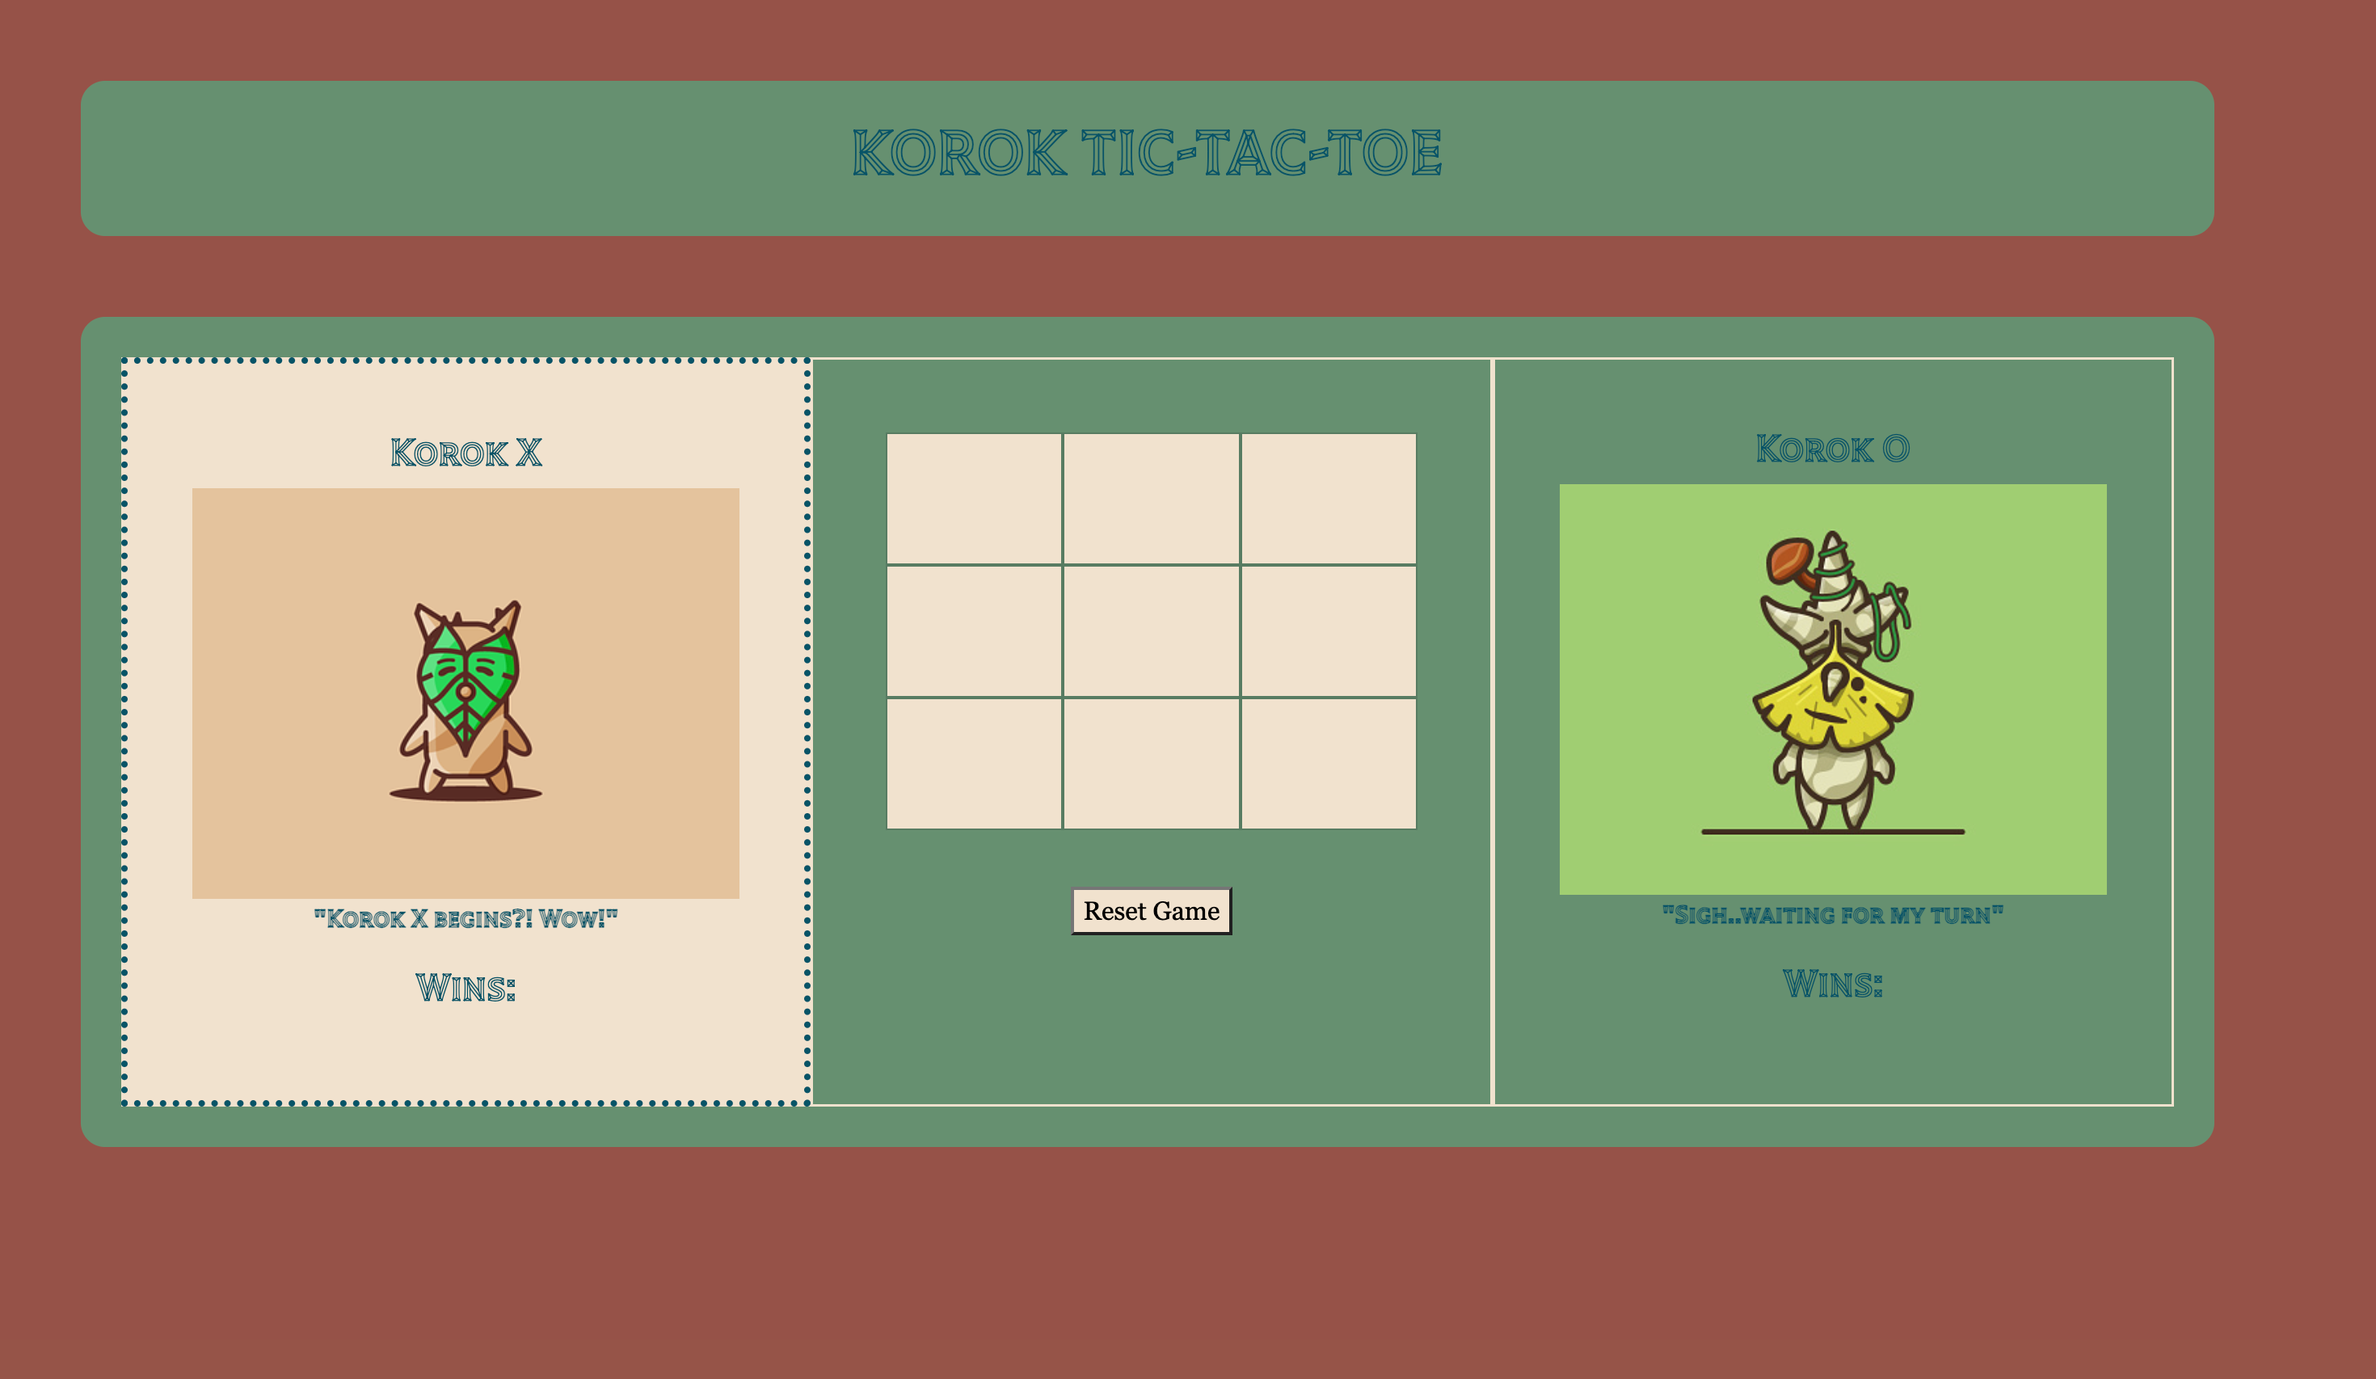
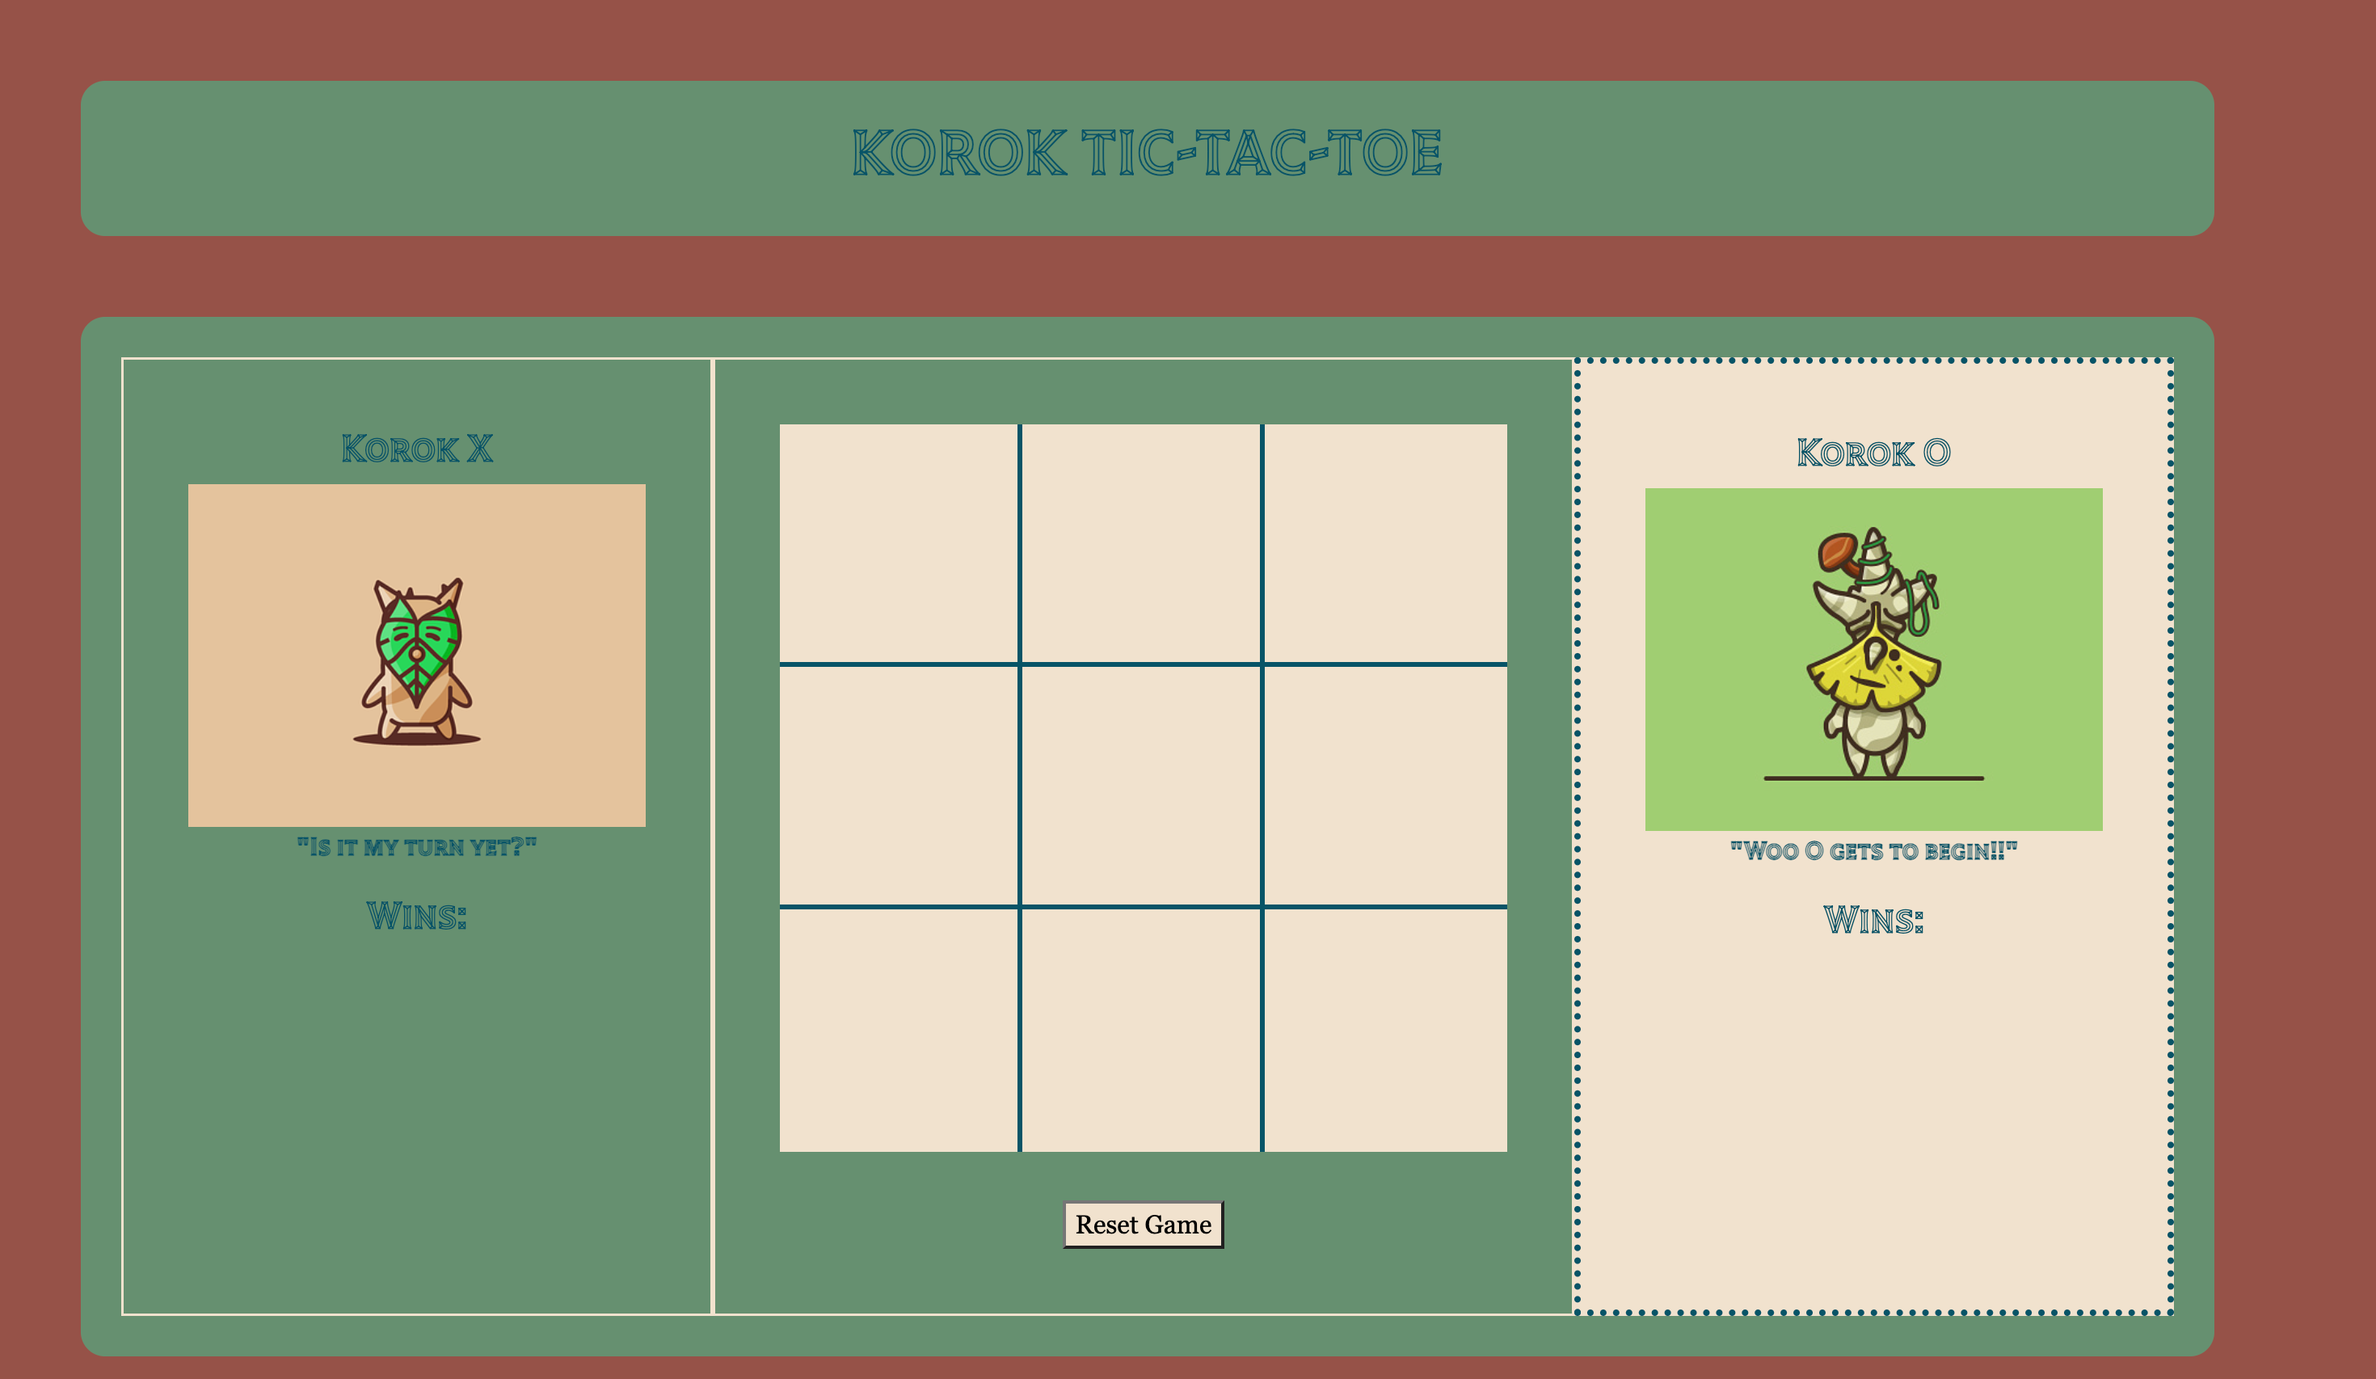
ReadMe Updates

diff --git a/script.js b/script.js
@@ -13,109 +13,134 @@ let xCounter = 0;
 let oCounter = 0;
 let korokXPhrase = document.querySelector("#korok-x-phrase");
 let korokOPhrase = document.querySelector("#korok-o-phrase");
-const korokYahahaSound = new Audio('media/yahaha.mp3');
-const korokSeedSound = new Audio('media/korok_seed.mp3');
-const korokRockSound = new Audio('media/dropping_rock_korok.mp3');
-const korokAppearSound = new Audio('media/korok_appear_short.mp3');
-// korokAppearSound.play();
+const korokYahahaSound = new Audio("media/yahaha.mp3");
+const korokSeedSound = new Audio("media/korok_seed.mp3");
+const korokRockSound = new Audio("media/dropping_rock_korok.mp3");
 
-window.addEventListener("load", () => { //upon window loading Event Listener
-    swal({
-        title: "You found us!",
-        text: "Let's start the game!",
-        button: "Ahh yiss!"
-    })
-})
+window.addEventListener("load", () => {
+  //upon window loading Event Listener
+  swal({
+    title: "You found us!",
+    text: "Let's start the game!",
+    button: "Ahh yiss!",
+    closeOnClickOutside: false,
+  });
+});
 
 let playerRandom = Math.floor(Math.random() * players.length); //randomly picks a player
-if (playerRandom === 0) { //if it's playerX's turn, their box is highlighted else playerO's box is highlighted
-    playerTurn = "X"
-    korokX.classList.add("player-turn") 
-    korokXPhrase.innerText = '"Korok X begins?! Wow!"'
+if (playerRandom === 0) {
+  //if it's playerX's turn, their box is highlighted else playerO's box is highlighted
+  playerTurn = "X";
+  korokX.classList.add("player-turn");
+  korokXPhrase.innerText = '"Korok X begins?! Wow!"';
 } else {
-    playerTurn = "O"
-    korokO.classList.add("player-turn")
-    korokOPhrase.innerText = '"Woo O gets to begin!!"'
-};
+  playerTurn = "O";
+  korokO.classList.add("player-turn");
+  korokOPhrase.innerText = '"Woo O gets to begin!!"';
+}
 
 function checkWin() {
-    if (
-    gridItem[0].innerText === gridItem[1].innerText && gridItem[0].innerText === gridItem[2].innerText && gridItem[0].innerText !== "" ||
-    gridItem[3].innerText === gridItem[4].innerText && gridItem[3].innerText === gridItem[5].innerText && gridItem[3].innerText !== "" ||
-    gridItem[6].innerText === gridItem[7].innerText && gridItem[6].innerText === gridItem[8].innerText && gridItem[6].innerText !== "" ||
-    gridItem[0].innerText === gridItem[3].innerText && gridItem[0].innerText === gridItem[6].innerText && gridItem[0].innerText !== "" ||
-    gridItem[1].innerText === gridItem[4].innerText && gridItem[1].innerText === gridItem[7].innerText && gridItem[1].innerText !== "" ||
-    gridItem[2].innerText === gridItem[5].innerText && gridItem[2].innerText === gridItem[8].innerText && gridItem[2].innerText !== "" ||
-    gridItem[0].innerText === gridItem[4].innerText && gridItem[0].innerText === gridItem[8].innerText && gridItem[0].innerText !== "" ||
-    gridItem[2].innerText === gridItem[4].innerText && gridItem[2].innerText === gridItem[6].innerText && gridItem[2].innerText !== "" 
-    ) {
-        gameOver = true; //changes game over as true
-        korokSeedSound.play()
-        setTimeout(() => {swal(`Korok ${playerTurn} wins!`)}, 50) //delays winner alert by 100ms
-    };
-};
+  if (
+    (gridItem[0].innerText === gridItem[1].innerText &&
+      gridItem[0].innerText === gridItem[2].innerText &&
+      gridItem[0].innerText !== "") ||
+    (gridItem[3].innerText === gridItem[4].innerText &&
+      gridItem[3].innerText === gridItem[5].innerText &&
+      gridItem[3].innerText !== "") ||
+    (gridItem[6].innerText === gridItem[7].innerText &&
+      gridItem[6].innerText === gridItem[8].innerText &&
+      gridItem[6].innerText !== "") ||
+    (gridItem[0].innerText === gridItem[3].innerText &&
+      gridItem[0].innerText === gridItem[6].innerText &&
+      gridItem[0].innerText !== "") ||
+    (gridItem[1].innerText === gridItem[4].innerText &&
+      gridItem[1].innerText === gridItem[7].innerText &&
+      gridItem[1].innerText !== "") ||
+    (gridItem[2].innerText === gridItem[5].innerText &&
+      gridItem[2].innerText === gridItem[8].innerText &&
+      gridItem[2].innerText !== "") ||
+    (gridItem[0].innerText === gridItem[4].innerText &&
+      gridItem[0].innerText === gridItem[8].innerText &&
+      gridItem[0].innerText !== "") ||
+    (gridItem[2].innerText === gridItem[4].innerText &&
+      gridItem[2].innerText === gridItem[6].innerText &&
+      gridItem[2].innerText !== "")
+  ) {
+    gameOver = true; //changes game over as true
+    korokSeedSound.play();
+    setTimeout(() => {
+      swal(`Korok ${playerTurn} wins!`);
+    }, 50); //delays winner alert by 100ms
+  }
+}
 
 function checkTie() {
-    if (checkTieArray.every(item => item === "X" || item === "O")){ //checks every item in the array for matching values
-        gameOver = true;
-        korokRockSound.play()
-        setTimeout(() => {
-            swal("Oooo it's a tie")
-        }, 50)
-    };
-};
+  if (checkTieArray.every((item) => item === "X" || item === "O")) {
+    //checks every item in the array for matching values
+    gameOver = true;
+    korokRockSound.play();
+    setTimeout(() => {
+      swal("Oooo it's a tie");
+    }, 50);
+  }
+}
 
-for (let i = 0; i < gridItem.length; i++) { //Iterates through grid items and performs the event listener
-    gridItem[i].addEventListener("click", gridItemClicked); //listens for if a gridItem is clicked
-    button.addEventListener("click", () => { //RESET GAME BUTTON EVENT LISTENER
-        korokYahahaSound.play()
-        gridItem[i].innerHTML = "";
-        checkTieArray = [];
-        gameOver = false;
-    });
-    function gridItemClicked(event) {
-        const clickedItem = event.target; //sets whichever grid item is clicked on as the event target
-        if (gameOver === true) { //keeps the game from continuing once a winner has been declared
-            return
-        };
-        
-        if (clickedItem.innerText === "X" || clickedItem.innerText === "O") { //stops users from choosing a spot that is already taken
-            korokRockSound.play()
-            swal("Spot is already taken! Choose another move.")
-        };
+for (let i = 0; i < gridItem.length; i++) {
+  //Iterates through grid items and performs the event listener
+  gridItem[i].addEventListener("click", gridItemClicked); //listens for if a gridItem is clicked
+  button.addEventListener("click", () => {
+    //RESET GAME BUTTON EVENT LISTENER
+    korokYahahaSound.play();
+    gridItem[i].innerHTML = "";
+    checkTieArray = [];
+    gameOver = false;
+  });
+  function gridItemClicked(event) {
+    const clickedItem = event.target; //sets whichever grid item is clicked on as the event target
+    if (gameOver === true) {
+      //keeps the game from continuing once a winner has been declared
+      return;
+    }
 
-        if (playerTurn === "X") {
-            clickedItem.innerText = korokXChoice //changes text to playerX's choice
-            checkWin()
-            if (gameOver === false ) {
-            korokX.classList.remove("player-turn") //removes playerOne box highlight
-            korokO.classList.add("player-turn") //adds playerTwo box highlight
-            playerTurn = "O" //switches playerTurn back to playerTwo
-            korokOPhrase.innerText = '"Woo O\'s turn!!"'
-            korokXPhrase.innerText = '"Is it my turn yet?"'
-            } else {
-                xCounter++
-                document.querySelector("#korok-x-wins").innerHTML = `${xCounter}`
-            };
-        } else {
-            clickedItem.innerText = korokOChoice //changes text to playerO's choice
-            checkWin()
-            if (gameOver === false ) {
-                korokO.classList.remove("player-turn") //removes playerTwo box highlight
-                korokX.classList.add("player-turn") //adds playerOne box highlight
-                playerTurn = "X" //switches playerTurn back to playerOne
-                korokXPhrase.innerText = '"It\'s X\'s turn!"'
-                korokOPhrase.innerText = '"Sigh..waiting for my turn"'
-            } else {
-                oCounter++
-                document.querySelector("#korok-o-wins").innerHTML = `${oCounter}`
-            };
-        };
-        //Check Tie
-        let gridItems = gridItem[i].innerText //grabs all the X's and O's entered
-        checkTieArray.push(gridItems) //push X's and O's into a new array
-        if (checkTieArray.length === 9 && gameOver === false) { //check for tie if all boxes are filled AND gameOver still false
-            checkTie()
-        }; //end check tie
-    }; //end gridItemClicked() function
-}; //end forOf loop
+    if (clickedItem.innerText === "X" || clickedItem.innerText === "O") {
+      //stops users from choosing a spot that is already taken
+      korokRockSound.play();
+      swal("Spot is already taken! Choose another move.");
+    }
+
+    if (playerTurn === "X") {
+      clickedItem.innerText = korokXChoice; //changes text to playerX's choice
+      checkWin();
+      if (gameOver === false) {
+        korokX.classList.remove("player-turn"); //removes playerOne box highlight
+        korokO.classList.add("player-turn"); //adds playerTwo box highlight
+        playerTurn = "O"; //switches playerTurn back to playerTwo
+        korokOPhrase.innerText = '"Woo O\'s turn!!"';
+        korokXPhrase.innerText = '"Is it my turn yet?"';
+      } else {
+        xCounter++;
+        document.querySelector("#korok-x-wins").innerHTML = `${xCounter}`;
+      }
+    } else {
+      clickedItem.innerText = korokOChoice; //changes text to playerO's choice
+      checkWin();
+      if (gameOver === false) {
+        korokO.classList.remove("player-turn"); //removes playerTwo box highlight
+        korokX.classList.add("player-turn"); //adds playerOne box highlight
+        playerTurn = "X"; //switches playerTurn back to playerOne
+        korokXPhrase.innerText = "\"It's X's turn!\"";
+        korokOPhrase.innerText = '"Sigh..waiting for my turn"';
+      } else {
+        oCounter++;
+        document.querySelector("#korok-o-wins").innerHTML = `${oCounter}`;
+      }
+    }
+    //Check Tie
+    let gridItems = gridItem[i].innerText; //grabs all the X's and O's entered
+    checkTieArray.push(gridItems); //push X's and O's into a new array
+    if (checkTieArray.length === 9 && gameOver === false) {
+      //check for tie if all boxes are filled AND gameOver still false
+      checkTie();
+    } //end check tie
+  } //end gridItemClicked() function
+} //end forOf loop

diff --git a/index.html b/index.html
@@ -53,7 +53,6 @@
     </div>
   </div>
   <!--BOOTSTRAP-->
-  <script src="https://cdn.jsdelivr.net/npm/@popperjs/core@2.11.8/dist/umd/popper.min.js" integrity="sha384-I7E8VVD/ismYTF4hNIPjVp/Zjvgyol6VFvRkX/vR+Vc4jQkC+hVqc2pM8ODewa9r" crossorigin="anonymous"></script>
   <script src="https://cdn.jsdelivr.net/npm/bootstrap@5.3.1/dist/js/bootstrap.min.js" integrity="sha384-Rx+T1VzGupg4BHQYs2gCW9It+akI2MM/mndMCy36UVfodzcJcF0GGLxZIzObiEfa" crossorigin="anonymous"></script>
   <!--MY JS-->
   <script src="script.js"></script>

diff --git a/style.css b/style.css
@@ -44,11 +44,6 @@
     margin: 5px;
 } 
 
-.player-turn { /*indicates player turn */
-    background-color: rgb(241, 227, 206);
-    border: 4px dotted rgb(9, 84, 103);
-}
-
 img {
     max-width: 100%;
 }
@@ -72,4 +67,9 @@ button {
 .content {
     max-width: 100%; /* stretches content to be the max width of the browser window */
     margin: auto;
+}
+
+.player-turn { /*indicates player turn */
+    background-color: rgb(241, 227, 206);
+    border: 4px dotted rgb(9, 84, 103);
 }

diff --git a/README.md b/README.md
@@ -14,6 +14,7 @@
 - Visually display which side won if a player gets three in a row, or show a draw if neither player wins
 - Include separate HTML / CSS / JavaScript files
 - Use JavaScript for DOM manipulation
+- Popup alerts to start a new game, when a player wins, there is a tie, or a spot is already taken
 
 ## User Stories
 - As a user, I should be able to start a new tic tac toe game
@@ -26,14 +27,24 @@
 
 ## MVP
 - **Bronze**
+    - Render a game board in the browser
+    - Switch turns between Korok X and Korok O
+    - Visually display which side won if a player gets three in a row, or show a draw if neither player wins
+    - Include separate HTML / CSS / JavaScript files
 - **Silver**
+    - CSS Styling
 - **Gold**
+    - Add responsive sounds
+    - Add a win counter
 
 ## Approach to logic
 - **HTML:** I kept the HTML layout simple. I used Bootstrap to create the gameboard columns, and the tic tac toe board itself consists of a grid-container with grid-items. I did not like how Bootstrap buttons look and so preferred to customize it myself.
-- **CSS:** One of the pivotal pieces of CSS was the .player-turn. I wanted the CSS of the Korok box to change depending on whose turn it was, so I gave it a different background-color and a dotted outline.
-- **Javascript:** I organized the logic by keeping all my variables at the top and event listeners below. At the start of each new round, I wanted a random player to be chosen to go first to be fair, so I used the Math.floor(Math.random()) method. Along with the CSS changing to dictate whose turn it is, I also utilized Javascript classList to add and remove the Korok's phrases depending on who starts and whose turn it is.
-    - **Event Listeners:** I had two event listeners, one to reload the page when the Reset Game button is clicked, and one to listen every time a grid-item was clicked on.
+- **CSS:**
+    - **Player Turns:** One of the pivotal pieces of CSS was the .player-turn. I wanted the CSS of the Korok box to change depending on whose turn it was, so I gave it a different background-color and a dotted outline.
+    - **Window Resizing:** I wanted to ensure that no matter how the window was resized, the gameboard and player boards did not shift outside of their respective container
+- **Javascript:** I organized the logic by keeping all my variables at the top and everything else below.
+    - **Player Turn:**  I used the Math.floor(Math.random()) method so that at the start of each new round, a random player is choosen. Along with the CSS changing to dictate whose turn it is, I also utilized Javascript classList to add and remove the Korok's phrases depending on who starts and whose turn it is.
+    - **Event Listeners:** I had three event listeners. One to listen when the window is reloaded which triggers a popup to start the game. A second to reset the gamebaord when the "Reset Game" button is clicked. A third to listen every time a grid-item was clicked on.
     - **Win Logic:** I listed all the ways a Korok could win using conditional statements.
     - **Tie Logic:** I created a separate function to checkTie that pushes innerText to a new array everytime the innerText is changed, and then iterated through this array to check if all the innerText matched "X" or "O" AND if the game was not yet over, which indicates a tie.
 
